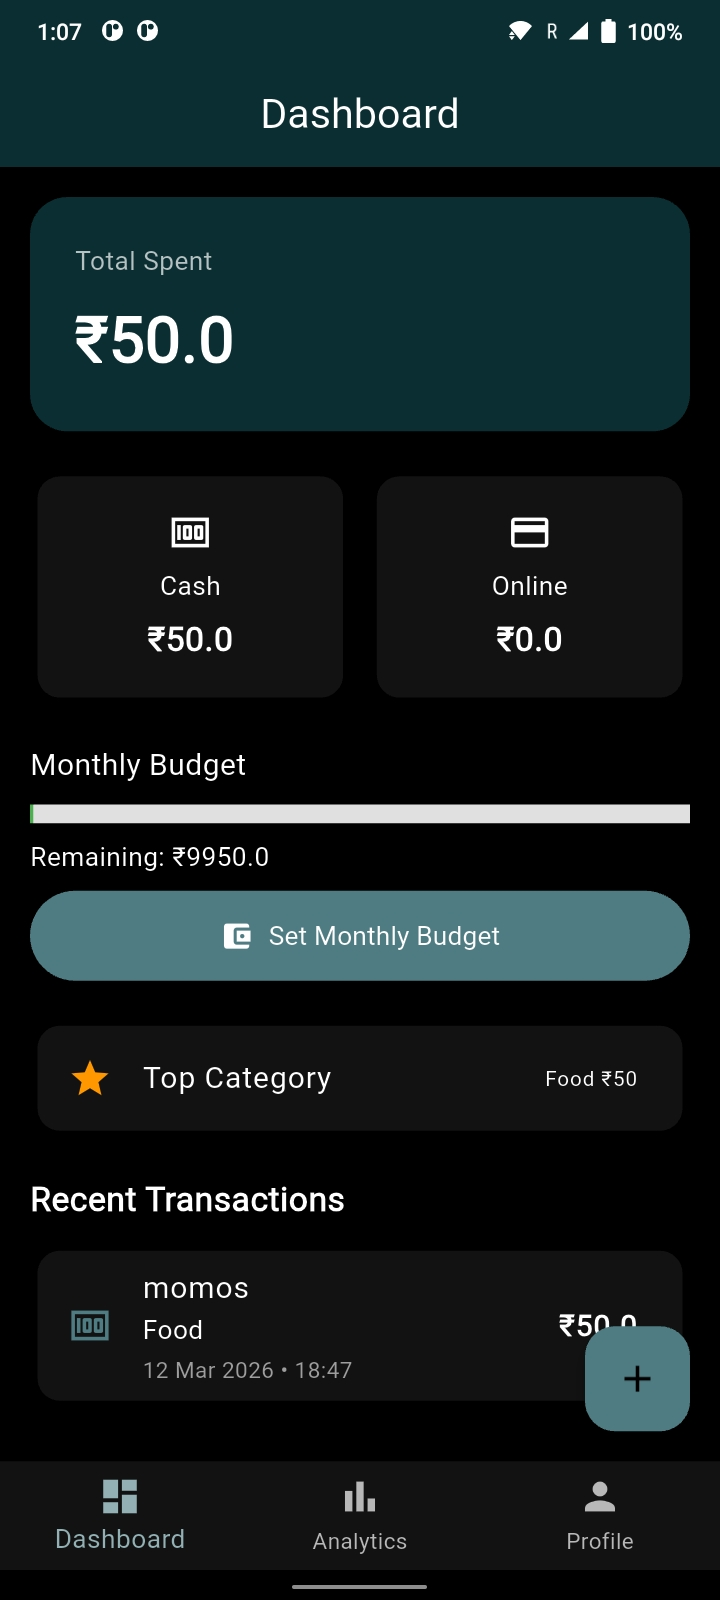
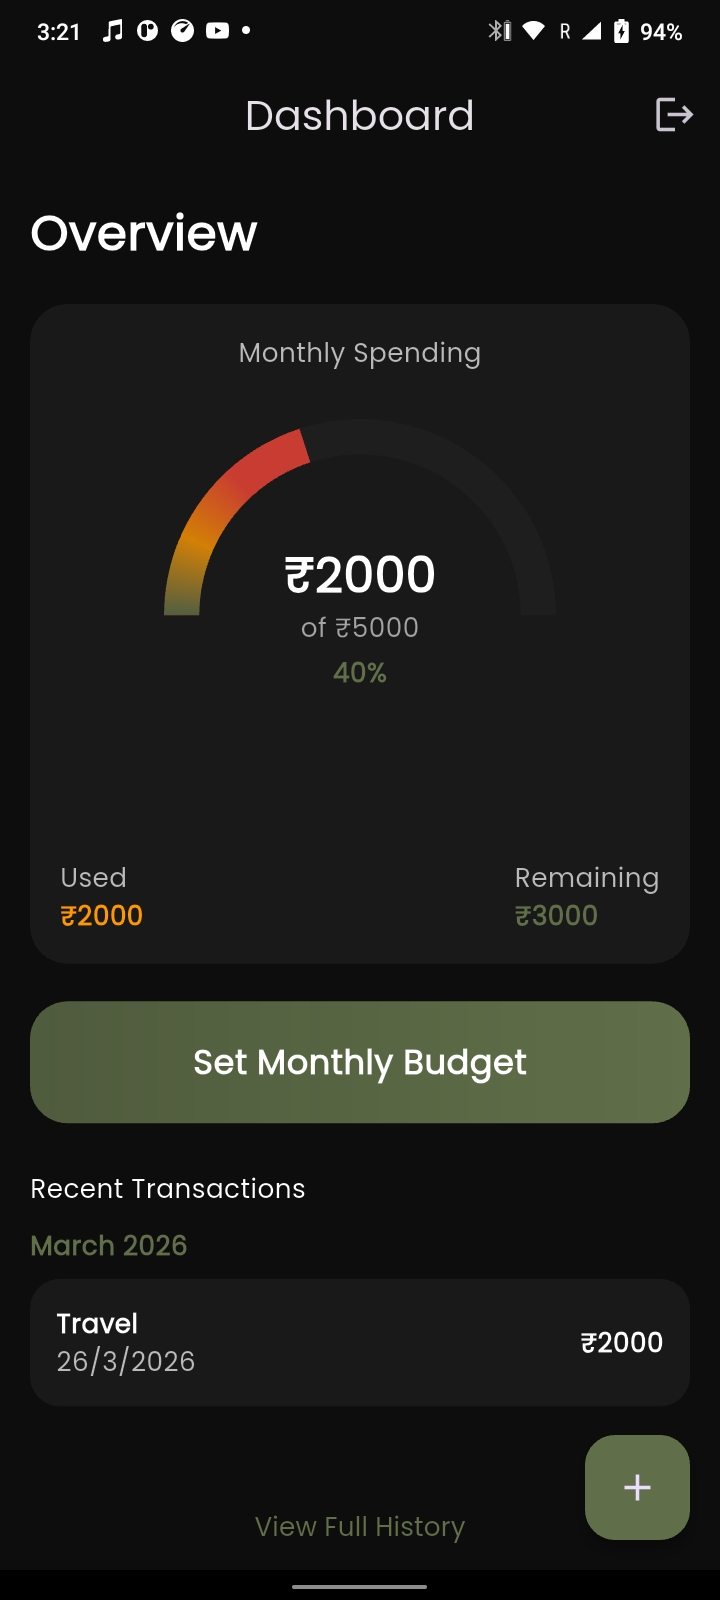
Updated UI

diff --git a/src/App.jsx b/src/App.jsx
@@ -7,7 +7,7 @@ function App() {
   };
 
   return (
-    <div className="min-h-screen bg-[#020617] text-white">
+    <div className="min-h-screen bg-[#020617] text-white font-sans">
 
       {/* HERO SECTION */}
       <section className="max-w-6xl mx-auto px-6 pt-16 pb-20 grid grid-cols-1 md:grid-cols-2 gap-12 items-center">
@@ -15,17 +15,18 @@ function App() {
         {/* LEFT SIDE */}
         <div className="flex flex-col items-center md:items-start text-center md:text-left">
 
-          <h1 className="text-4xl md:text-6xl font-bold mb-5 leading-tight">Expense Tracker
+          <h1 className="text-4xl md:text-6xl font-extrabold mb-5 leading-tight tracking-tight">
+            Expense Tracker
           </h1>
 
-          <p className="text-gray-400 text-base md:text-lg mb-7 max-w-md">
+          <p className="text-gray-400 text-base md:text-lg mb-7 max-w-md leading-relaxed">
             Track spending, detect bank transactions from SMS,
             analyze expenses and stay within your monthly budget.
           </p>
 
           <button
             onClick={downloadApk}
-            className="flex items-center gap-2 bg-[#4F7C82] hover:bg-[#3c666c] px-7 md:px-8 py-3 md:py-4 rounded-lg text-base md:text-lg font-medium transition hover:scale-105 shadow-lg"
+            className="flex items-center gap-2 bg-[#606F49] hover:bg-[#4e5c3a] px-7 md:px-8 py-3 md:py-4 rounded-lg text-base md:text-lg font-semibold transition hover:scale-105 shadow-lg"
           >
             <Download size={20}/>
             Download APK
@@ -38,7 +39,7 @@ function App() {
         <div className="relative flex justify-center">
 
           {/* Glow background */}
-          <div className="absolute w-72 h-72 bg-[#4F7C82] blur-[120px] opacity-20"></div>
+          <div className="absolute w-72 h-72 bg-[#606F49] blur-[120px] opacity-20"></div>
 
           {/* Phone Body */}
           <div className="relative bg-black p-3 rounded-[40px] shadow-2xl animate-float">
@@ -63,7 +64,7 @@ function App() {
       {/* FEATURES */}
       <section className="max-w-6xl mx-auto px-6 pb-20">
 
-        <h2 className="text-2xl md:text-3xl font-semibold text-center mb-12">
+        <h2 className="text-2xl md:text-3xl font-semibold text-center mb-12 tracking-wide">
           Features
         </h2>
 
@@ -95,7 +96,7 @@ function App() {
       {/* FOOTER */}
       <footer className="text-center pb-8 text-gray-500 text-sm px-6">
 
-        Built by <span className="text-white font-medium">Karan Sharma</span>
+        Built by <span className="text-white font-semibold">Karan Sharma</span>
 
       </footer>
 
@@ -106,17 +107,17 @@ function App() {
 
 function Feature({ icon, title, text }) {
   return (
-    <div className="bg-[#0B2E33] p-6 rounded-xl transition transform hover:scale-105 hover:-translate-y-1 duration-300 shadow-lg hover:shadow-xl">
+    <div className="bg-[#111827] p-6 rounded-xl transition transform hover:scale-105 hover:-translate-y-1 duration-300 shadow-lg hover:shadow-xl border border-[#606F49]/20">
 
-      <div className="text-[#4F7C82] mb-4 flex justify-center md:justify-start">
+      <div className="text-[#606F49] mb-4 flex justify-center md:justify-start">
         {icon}
       </div>
 
-      <h3 className="font-semibold text-lg mb-2 text-center md:text-left">
+      <h3 className="font-semibold text-lg mb-2 text-center md:text-left tracking-wide">
         {title}
       </h3>
 
-      <p className="text-gray-400 text-sm text-center md:text-left">
+      <p className="text-gray-400 text-sm text-center md:text-left leading-relaxed">
         {text}
       </p>
 
